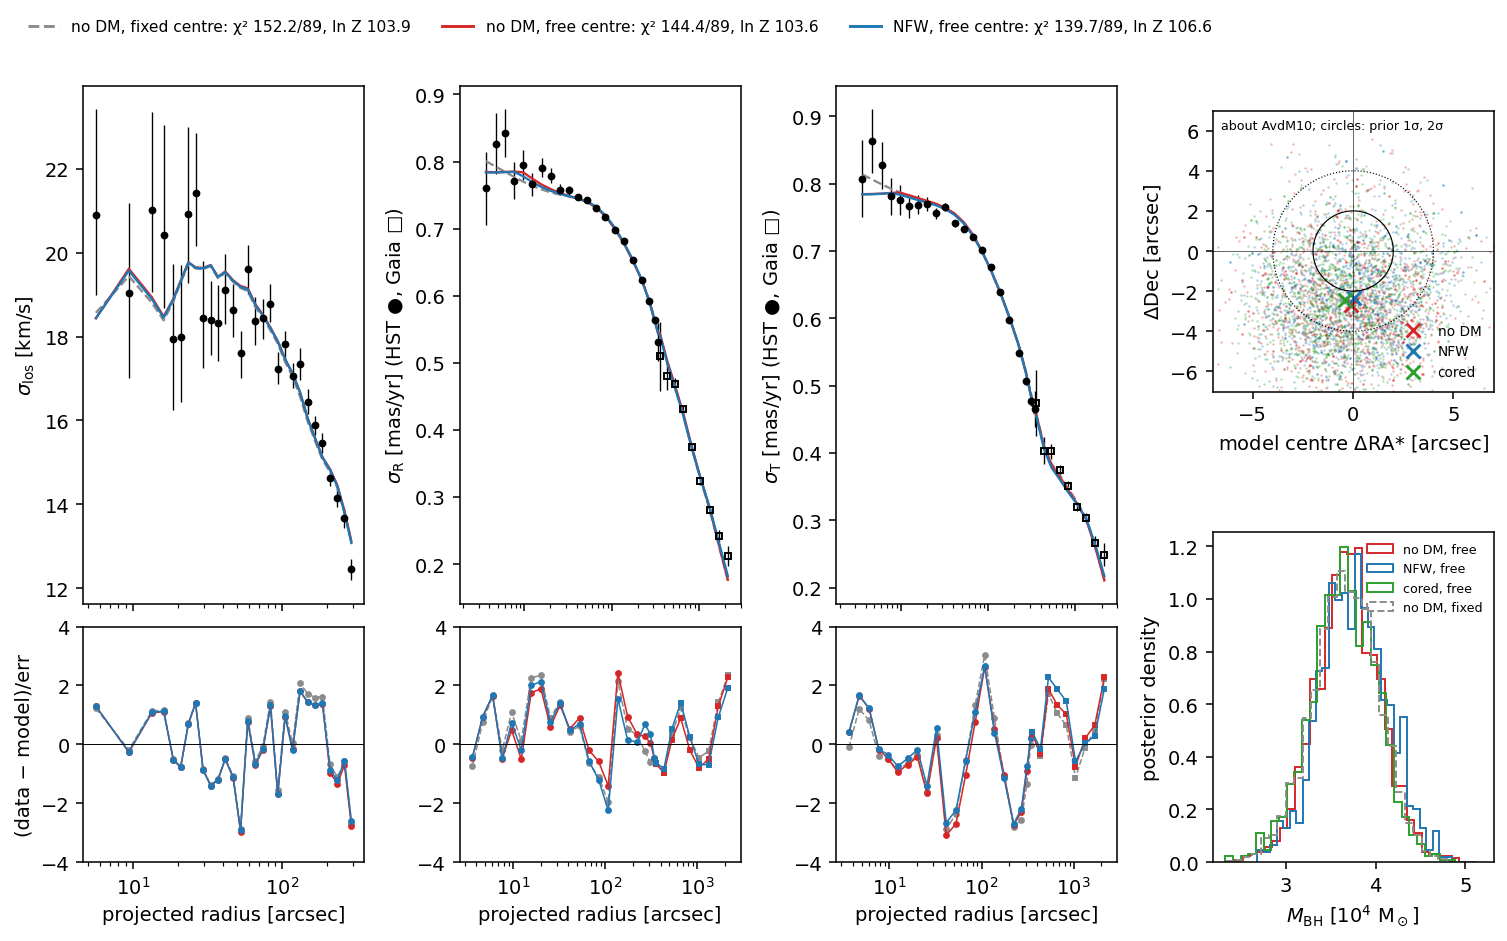
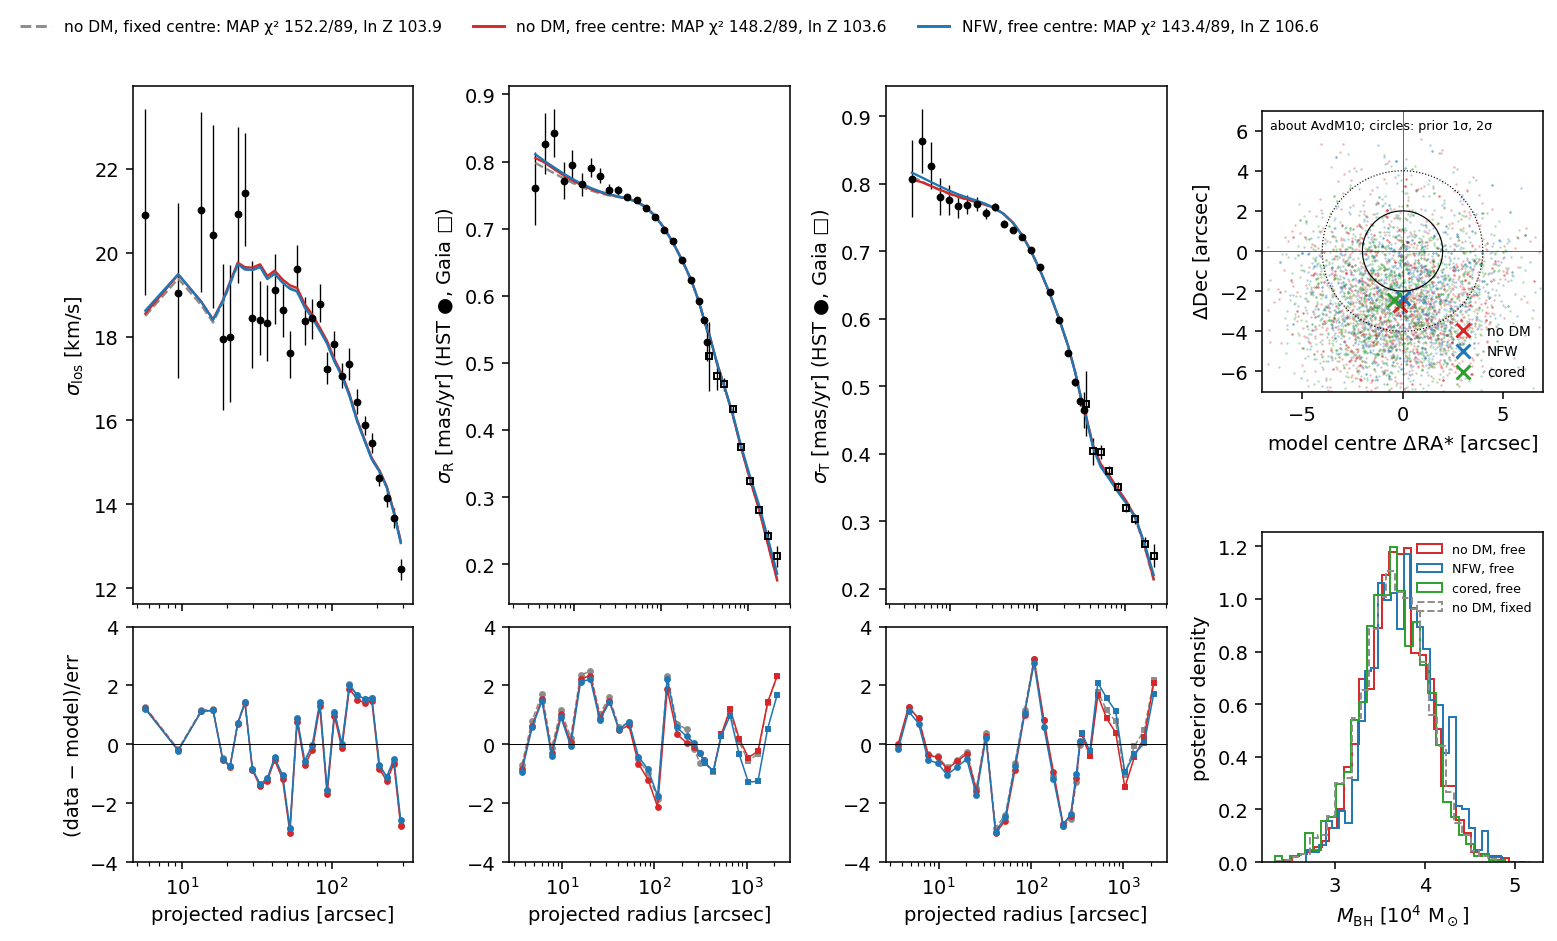
Jeans centre plot: curves and chi2 from the MAP sample instead of the maximum-likelihood point

diff --git a/bin/plot_jeans_centre2.py b/bin/plot_jeans_centre2.py
@@ -3,9 +3,12 @@
 
 Fixed centre: jeans_K1_turnover_counts_c, jeans_K2_{nfw,cored}_turnover_counts_c (2026-10-16).
 Free centre:  the same labels with suffix _centre2 (bin/run_jeans_counts_tracer.py --centre-sigma 2).
-Left: kinematic data with the maximum-likelihood predictions of K1 (fixed centre), K1 and NFW (free centre), with
-residuals. The free-centre curves include the model-centre factors (FitProblem.predict); replayed chi2 is checked
-against the saved value. Right top: posterior of the model centre offset (dRA*, dDec) about AvdM10 for the three
+Left: kinematic data with the maximum-a-posteriori (MAP) predictions of K1 (fixed centre), K1 and NFW (free centre),
+with residuals. MAP = the sampled point (ultranest/chains/weighted_post.txt) maximising ln L + ln prior, the prior
+density taken in the sampled coordinates (flat in log10 for loguniform, flat for uniform, Gaussian for normal), so
+only the normal priors (distance, centre) enter. Not the maximum-likelihood point: with a free centre that lies
+7.6-9.1" south, outside the validated range of the centre model. The free-centre curves include the model-centre
+factors (FitProblem.predict); the replayed ln L is checked against the stored value. Right top: posterior of the model centre offset (dRA*, dDec) about AvdM10 for the three
 free-centre fits, with the 1- and 2-sigma prior circles. Right bottom: M_bh posteriors.
 Output: plots/jeans_centre2_20261113.png, results/plot_data/jeans_centre2_20261113.json.
 Usage: PYTHONPATH=src python bin/plot_jeans_centre2.py
@@ -35,16 +38,33 @@ FREE = [("jeans_K1_turnover_counts_c_centre2", "no DM", "C3"),
 SIGMA = 2.0
 
 
+def map_point(label, family):
+    """Sampled point maximising ln L + ln prior (sampled coordinates); returns (x, lnL, lnprior)."""
+    d = ROOT/"results/fits"/label/"ultranest/chains/weighted_post.txt"
+    names = open(d).readline().split()
+    rows = np.loadtxt(d, skiprows=1)
+    cols = {n: rows[:, i] for i, n in enumerate(names)}
+    lnprior = np.zeros(len(rows))
+    for p in family.parameters:
+        if p.prior.kind in ("normal", "truncnormal"):
+            lnprior += -0.5*((cols[p.name]-p.prior.mu)/p.prior.sigma)**2
+    k = int(np.argmax(cols["logl"]+lnprior))
+    return np.array([cols[n][k] for n in family.names]), float(cols["logl"][k]), float(lnprior[k])
+
+
 def main():
     runs = {}
     for label, *_ in CURVES:
         run = load_run_metadata(ROOT/"results/fits"/label)
         problem = problem_for(run)                          # replays ln L at the ML point
         s = run["summary"]
-        x = np.array([s["parameters"][n]["ml"] for n in problem.family.names])
+        x, lnl, lnp = map_point(label, problem.family)
+        assert np.isclose(problem.loglike_vector(x), lnl, atol=1e-6), label
         chi2 = problem.chi2(x)
-        assert np.isclose(sum(v[0] for v in chi2.values()), s["chi2_ml_total"], atol=.011)
-        runs[label] = dict(problem=problem, pred=problem.predict(x), chi2=chi2, summary=s)
+        runs[label] = dict(problem=problem, pred=problem.predict(x), chi2=chi2, summary=s, x=x, lnl=lnl,
+                           chi2_total=sum(v[0] for v in chi2.values()),
+                           centre={n: float(x[problem.family.names.index(n)]) for n in ("centre_x", "centre_y")
+                                   if n in problem.family.names})
     data = runs[CURVES[0][0]]["problem"].data
     profiles = {p.name: p for p in data.profiles}
     fig = plt.figure(figsize=(13, 7.2))
@@ -73,8 +93,8 @@ def main():
     axes[2][0].set_ylabel(r"$\sigma_{\rm T}$ [mas/yr] (HST ●, Gaia □)")
     axes[0][1].set_ylabel("(data − model)/err")
     for label, name, col, ls in CURVES:
-        s = runs[label]["summary"]
-        axes[0][0].plot([], [], ls, color=col, label=f"{name}: χ² {s['chi2_ml_total']:.1f}/89, ln Z {s['logz']:.1f}")
+        m = runs[label]
+        axes[0][0].plot([], [], ls, color=col, label=f"{name}: MAP χ² {m['chi2_total']:.1f}/89, ln Z {m['summary']['logz']:.1f}")
     fig.legend(loc="upper center", bbox_to_anchor=(0.42, 0.96), ncol=3, fontsize=8, frameon=False)
 
     out = dict(prior_sigma_arcsec=SIGMA, models={})
@@ -107,8 +127,12 @@ def main():
     fig.savefig(ROOT/"plots/jeans_centre2_20261113.png", dpi=140, bbox_inches="tight")
     (ROOT/"results/plot_data").mkdir(exist_ok=True)
     (ROOT/"results/plot_data/jeans_centre2_20261113.json").write_text(json.dumps(out, indent=1))
-    for label in runs:
-        print(label, {k: round(v[0], 2) for k, v in runs[label]["chi2"].items()})
+    for label, m in runs.items():
+        out["models"].setdefault(label, {})["map"] = dict(lnL=m["lnl"], chi2_total=m["chi2_total"], centre=m["centre"],
+                                                         chi2={k: v[0] for k, v in m["chi2"].items()})
+        print(label, "MAP lnL %.2f chi2 %.2f" % (m["lnl"], m["chi2_total"]), m["centre"],
+              {k: round(v[0], 2) for k, v in m["chi2"].items()})
+    (ROOT/"results/plot_data/jeans_centre2_20261113.json").write_text(json.dumps(out, indent=1))
 
 
 if __name__ == "__main__":
